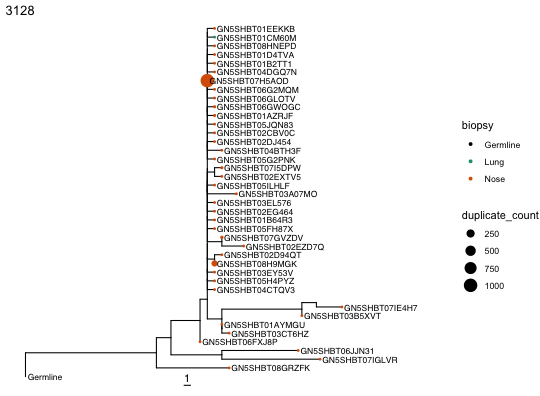
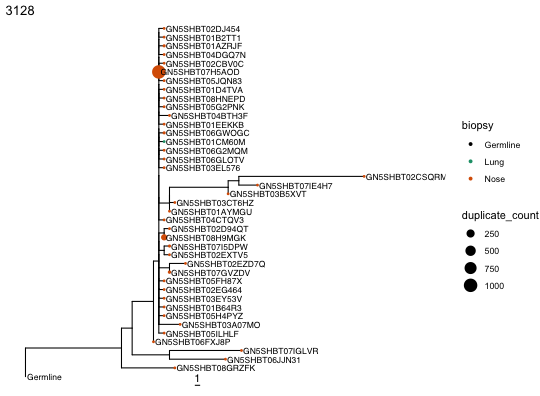
docs update

Changed region(s): [[0.0296, 0.0606, 0.8296, 0.9697], [0.0296, 0.9394, 0.1185, 0.9697]]

diff --git a/docs/vignettes/Removing-Problematic-Sequences-Vignette.md b/docs/vignettes/Removing-Problematic-Sequences-Vignette.md
@@ -1,12 +1,14 @@
 # Removing problematic sequences
 
-Repertoire sequencing data often contains sequences that can skew phylogenetic analysis such as partial reads and reads resulting from oversequencing and/or PCR error. While most preprocessing is better done using pRESTO, Dowser provides two functions for removing these sequences: `filterPartialSeqs` and `filterCombs`.
+Repertoire sequencing data often contains sequences that shouldn't go into a lineage tree analysis: partial or poorly-covered reads, and low-count sequences that are really just oversequencing or PCR error rather than genuine clonal members. Dowser provides two functions for cleaning these out of an AIRR/Change-O data set before clones are formatted and trees are built: `filterPartialSeqs` and `filterCombs`.
 
 ## Removing partial sequences
 
-Partial or truncated sequences can cause spurious clonal groupings, often with unrelated V and J genes. This is because partial reads often mathc to many ambiguous V genes, which causes some clonal clustering algorithms to consider all sequences with any of the matching V/J groups as potentially part of the same clone. Even a small number of these sequences can lead to problems with clonal clustering. `filterPartialSeqs` removes any sequence whose alignment doesn't contain enough real nucleotides, and is **highly recommended before clonal clustering**, not just before tree building.
+Partial or truncated sequences (e.g. reads only covering part of the V region) can distort alignments and clonal clustering. `filterPartialSeqs` removes any sequence whose alignment doesn't contain enough real nucleotide calls, and is **highly recommended before clonal clustering**, not just before tree building.
 
 For each sequence, it counts characters matching `pattern` (default `[ATCG]`, i.e. unambiguous nucleotides) and drops any sequence with fewer matches than `cutoff` (default 250).
+
+The example data has no partial sequences, so we'll simulate one by masking the second half of a sequence's alignment with `N`s, as if only the first half had been sequenced.
 
 
 ``` r
@@ -19,9 +21,15 @@ data(ExampleAirr)
 # Simulate a partial/truncated sequence
 row <- which(ExampleAirr$sequence_id == "GN5SHBT04BIIPE")
 orig <- ExampleAirr$sequence_alignment[row]
-half <- floor(nchar(orig)/2)
-ExampleAirr$sequence_alignment[row] <- paste0(substr(orig, 1, half),
-  paste(rep("N", nchar(orig) - half), collapse=""))
+ExampleAirr$sequence_alignment[row] <- paste0(
+  paste(rep(".", 150), collapse=""), substr(orig, 150, nchar(orig)))
+
+# example partial/truncated sequence that could mess up clonal clustering
+print(ExampleAirr$sequence_alignment[row])
+```
+
+```
+## [1] "......................................................................................................................................................GGAGTGGGTAGGCTTCATTAGAAGCAAACTTTTTGGTGGGACAGCAGACTACGCCGCGTCAGTGGAA...GGCAGATTCACCATCTCAAGAGAAGATTCCGAGAGCACCGCCTATCTGCAAATGGATAGCCTGAAGACCGAGGACACAGGCTTTTATTATTGTAGTAGAGATCTCCGGGTTAGTTCCACAGCAGCTGGCACTAACTGGTTCGACCCCCGGGGCCAGGGAGCCCTGGTCACCGTCTCCTCAG"
 ```
 
 
@@ -48,21 +56,19 @@ For non-standard alignment columns or a different cutoff, adjust `seq`, `cutoff`
 
 ## Removing "comb" artifacts
 
-Sequencing can also generate near-identical sequences that differ from a much more abundant sequence by only one or two nucleotides — usually oversequencing or PCR error, not real somatic hypermutation. In a lineage tree this shows up as a "comb": a flat polytomy of low-`duplicate_count` tips radiating from a single node with a much higher `duplicate_count`. Left uncorrected, it can look like a burst of diversification and inflate downstream measures of tree shape.
+Bulk BCR sequencing, especially without UMIs, often generates near-identical sequences that differ from a much more abundant sequence by only one or two nucleotides. This is often thought to result from oversequencing or PCR error, not real somatic hypermutation. In a lineage tree this shows up as a "comb": a flat polytomy of low-`duplicate_count` tips radiating from a single node with a much higher `duplicate_count`. `filterCombs` detects and removes these likely comb artifacts. 
 
-`filterCombs` detects and removes likely comb artifacts. Unlike `filterPartialSeqs`, it needs `clone_id` already assigned, so it should run after clonal clustering but still before `formatClones`.
+To work, the `clone_id` must already be already assigned, so `filterCombs` should run after clonal clustering but still before `formatClones`.
 
 For each sequence with a `duplicate_count` at or above `dup_count_thresh`, it compares against every other sequence in the same clone, cutting a candidate if its duplicate count is low relative to the higher-count sequence, scaled by their Hamming distance:
 
 ```
-child[[duplicate]]/parent[[duplicate]] < 10^(-(exponent + Hamming distance[child, parent]))
+child[[`duplicate`]]/parent[[`duplicate`]] < 10^(-(`exponent` + Hamming distance[child, parent]))
 ```
 
-More distant sequences are allowed a higher relative duplicate count before being cut; near-identical ones are held to a much stricter ratio.
+More distant sequences are allowed a higher relative duplicate count before being cut. Near-identical ones are held to a much stricter ratio. This ratio decreases by 10-fold with each additional sequence difference from the parent sequence.
 
 ### Simulating a comb artifact
-
-The example data has no obvious comb either, so we'll simulate one by inflating the `duplicate_count` of two sequences in clone `3128`: `GN5SHBT07H5AOD` as the highly-sequenced "hub", and `GN5SHBT08H9MGK` as a smaller secondary artifact.
 
 
 ``` r
@@ -82,14 +88,14 @@ clones <- formatClones(clone, trait="biopsy", num_fields="duplicate_count")
 trees <- scaleBranches(getTrees(clones))
 
 plotTrees(trees, tipsize="duplicate_count", tips="biopsy", scale=1)[[1]] +
-  geom_tiplab(size=3) + xlim(0, 55)
+  geom_tiplab(size=3) + xlim(0, 75)
 ```
 
 ![plot of chunk Removing-Problematic-Sequences-Vignette-5](figure/Removing-Problematic-Sequences-Vignette-5-1.png)
 
-Notice the flat radiation of `duplicate_count` ~1 tips branching directly from `GN5SHBT07H5AOD` (`duplicate_count` 1000) — many near-identical, low-count sequences attaching to one much higher-count sequence is the signature of a comb, not genuine diversification.
+Notice the flat radiation of `duplicate_count` ~1 tips branching directly from `GN5SHBT07H5AOD` (`duplicate_count` 1000). These many near-identical, low-count sequences radiating from one much higher-count sequence is the signature of a comb, which is often suspected to be from PCR or sequencing error.
 
-### Filtering the comb
+### Removing comb artifacts
 
 Run `filterCombs` on the full, unfiltered data set, using the defaults `dup_count_thresh=100` and `exponent=1`.
 
@@ -111,25 +117,23 @@ fclones <- formatClones(fclone, trait="biopsy", num_fields="duplicate_count")
 ftrees <- scaleBranches(getTrees(fclones))
 
 plotTrees(ftrees, tipsize="duplicate_count", tips="biopsy", scale=1)[[1]] +
-  geom_tiplab(size=3) + xlim(0, 55)
+  geom_tiplab(size=3) + xlim(0, 75)
 ```
 
 ![plot of chunk Removing-Problematic-Sequences-Vignette-7](figure/Removing-Problematic-Sequences-Vignette-7-1.png)
 
-Most of the comb tips around `GN5SHBT07H5AOD` are gone, along with the secondary artifact at `GN5SHBT08H9MGK`, leaving a tree that better reflects genuine diversification.
+Most of the comb tips around `GN5SHBT07H5AOD` and `GN5SHBT08H9MGK` are gone.
 
 ### Choosing parameters
 
 * `dup_count_thresh`: minimum `duplicate_count` for a sequence to be treated as a potential comb source. Raising it makes filtering more conservative.
-* `exponent`: how aggressively nearby sequences are cut. At `exponent=1`, a child needs a duplicate count ratio below 1/100 of its neighbor's to be cut at Hamming distance 1 (1/1000 at distance 2). `exponent=2` is stricter still (1/1000 at distance 1), removing fewer sequences.
+* `exponent`: how aggressively nearby sequences are cut. At `exponent=1`, a child needs a duplicate count ratio below 1/100 of its neighbor's to be cut at Hamming distance 1 (1/1000 at distance 2). `exponent=2` is less strict, requiring 1/1000 at distance 1, removing fewer sequences.
 * `gap`: gap penalty for the Hamming distance calculation. `gap=0` (default) ignores gaps.
-* `id`, `seq`, `clone`, `duplicate`: column names, for data not in standard AIRR format.
-
-This function is experimental — visually compare trees before and after filtering, as above, to confirm it's removing artifacts rather than genuine clonal members.
+* `id`, `seq`, `clone`, `duplicate`: column names, and by default are set to the standard AIRR format.
 
 ## Recommended order
 
-Putting this all together, a typical cleaning pipeline looks like:
+Putting this all together, a typical pipeline might look like:
 
 1. `filterPartialSeqs` on the raw AIRR/Change-O data, before clonal clustering.
 2. Clonal clustering (for example with [SCOPer](https://scoper.readthedocs.io)), which assigns `clone_id`.
